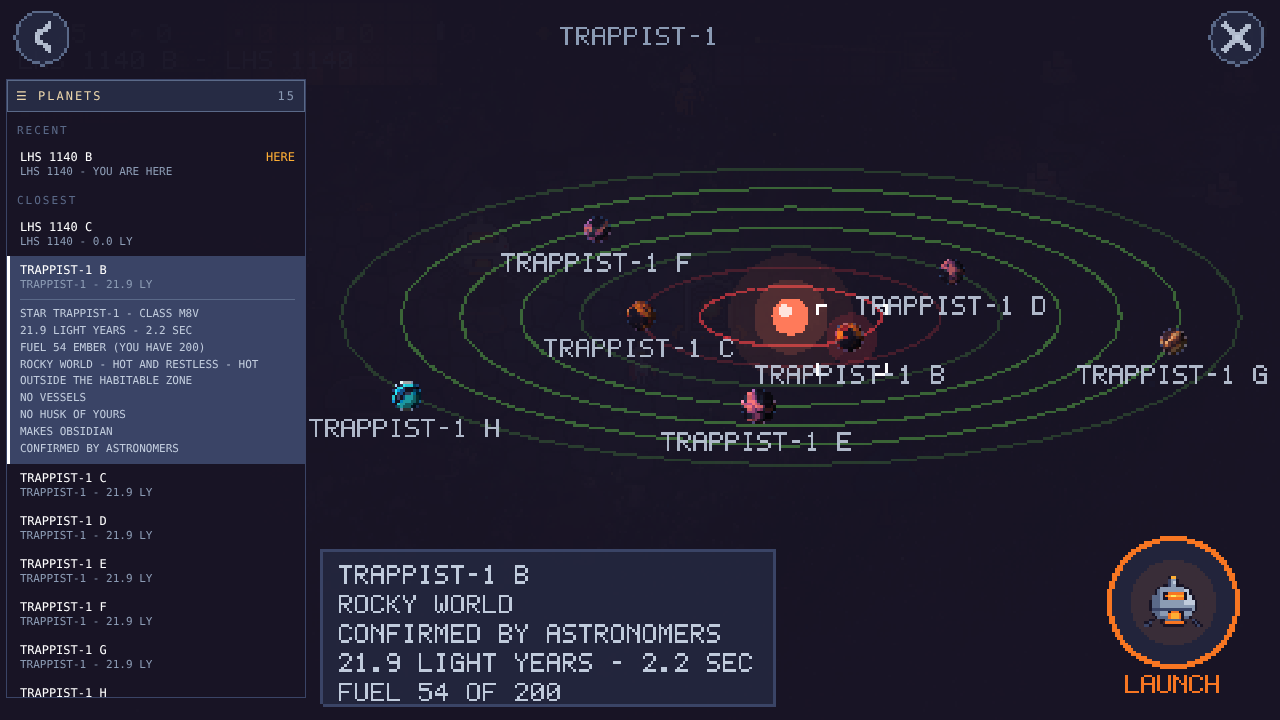
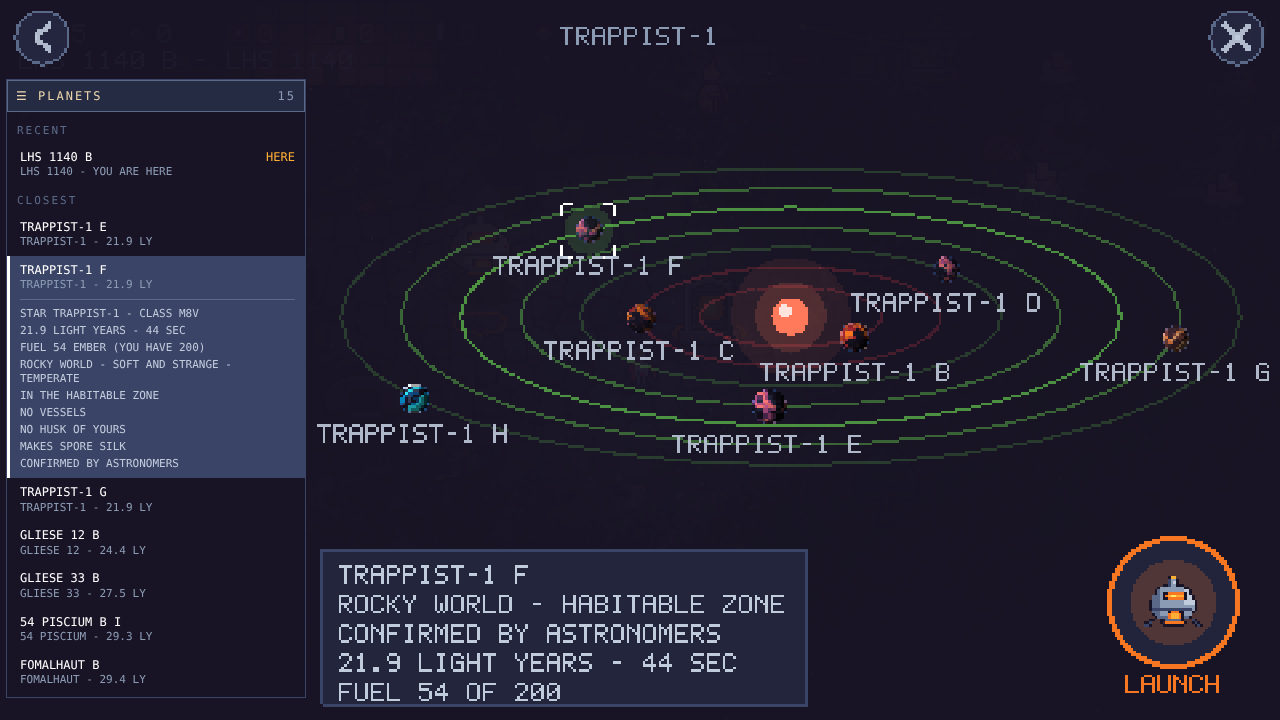
Planet menu: CLOSEST lists other stars only, at most three worlds each
The planets of the star you are at sat in CLOSEST at 0.0 LY (from Mars:
Mercury, Venus, Europa, Titan...). They stay on the map (tap the star);
the list now reaches the nearest other systems, habitable-zone worlds first.

Claude-Session: https://claude.ai/code/session_01EdNNBBbs6drGGsz8FA1VDd

diff --git a/src/scenes/StarMapScene.ts b/src/scenes/StarMapScene.ts
@@ -269,7 +269,11 @@ export class StarMapScene extends Phaser.Scene {
     return { star, planet, name: sp.moon ?? sp.name, sub: here ? `${s.name} - YOU ARE HERE` : `${s.name} - ${ly.toFixed(1)} LY`, details, mark };
   }
 
-  /** RECENT: worlds with a save, newest first (this one leads). CLOSEST: the worlds of the nearest stars. */
+  /**
+   * RECENT: worlds with a save, newest first (this one leads). CLOSEST: the worlds of the nearest other stars, at most
+   * PER_STAR of each (those in the habitable zone first), so the list reaches past one big system; the planets of the
+   * star you are at are on the map (tap it), not in this list.
+   */
   private fillMenu() {
     if (!this.menu) return;
     const from = this.d.fromPlanet ?? defaultPlanetIndex(this.d.from);
@@ -282,14 +286,16 @@ export class StarMapScene extends Phaser.Scene {
       if (e) { recent.push(e); seen.add(k); }
     }
     const closest: PlanetEntry[] = [];
+    const PER_STAR = 3, MAX = 14;
     for (const s of [...STAR_LIST].sort((a, b) => distanceLy(this.d.from, a.id) - distanceLy(this.d.from, b.id))) {
-      for (const p of systemFor(s.id)) {
-        if (closest.length >= 14) break;
-        if (this.isHere(s.id, p.index)) continue;
+      if (s.id === this.d.from) continue;
+      const worlds = systemFor(s.id).slice().sort((a, b) => Number(b.hz) - Number(a.hz) || a.index - b.index).slice(0, PER_STAR).sort((a, b) => a.index - b.index);
+      for (const p of worlds) {
+        if (closest.length >= MAX) break;
         const e = this.entry(s.id, p.index);
         if (e) closest.push(e);
       }
-      if (closest.length >= 14) break;
+      if (closest.length >= MAX) break;
     }
     this.menu.setGroups({ recent, closest });
   }
